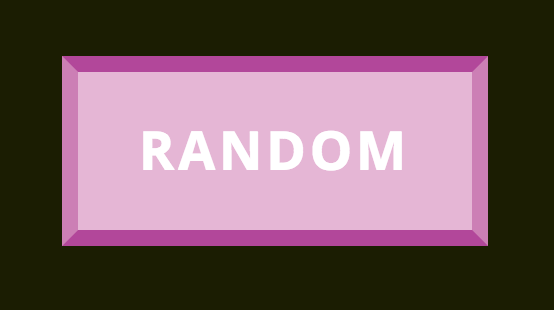
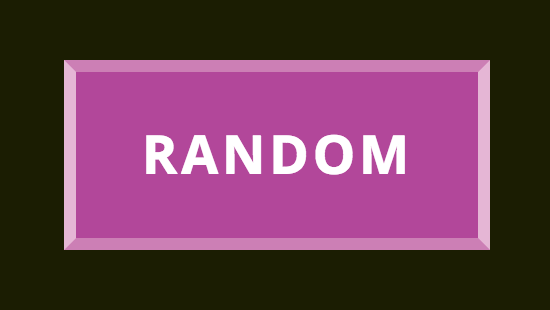
WIP colors

diff --git a/index.html b/index.html
@@ -5,7 +5,7 @@
   <title>home</title>
   <link rel="stylesheet" href="reset.css"/>
   <link href="https://fonts.googleapis.com/css?family=Open+Sans+Condensed:300" rel="stylesheet">
-  <link href="https://fonts.googleapis.com/css?family=IM+Fell+DW+Pica+SC" rel="stylesheet">
+  <link href="https://fonts.googleapis.com/css?family=Poppins:400,500" rel="stylesheet">
   <link href="https://fonts.googleapis.com/css?family=Julius+Sans+One" rel="stylesheet">
   <meta name="viewport" content="width=device-width, initial-scale=1, user-scalable=true;">
   <link rel="stylesheet" type="text/css" href="style.css">
@@ -55,14 +55,18 @@
 
 <section id="right-side">
 
-  <header><h2>Portfolio</h2></header>
+  <header><h2>Featured Work</h2></header>
 
       <section class="large card">
 
-        <h2>Random Color Changer</h2>
-        <h3><a href="https://github.com/maiastone/color-change-me" title="GitHub" id="project-page">Check out the code on GitHub</a></h3>
-        <h3><a href="https://maiastone.github.io/color-change-me/" title="GitHub" id="project-page">See it live on GitHub Pages</a></h3>
-        <img src="Images/color-changer.png" alt="Portfolio"/>
+        <h2>Color Randomizer</h2>
+        <div class="card-container">
+          <img src="Images/color-changer.png" alt="Portfolio"/>
+            <div class="card-links">
+              <h3><a href="https://github.com/maiastone/color-change-me" title="GitHub" id="project-page">Check out the code on GitHub</a></h3>
+              <h3><a href="https://maiastone.github.io/color-change-me/" title="GitHub" id="project-page">See it live on GitHub Pages</a></h3>
+            </div>
+        </div>
         <h4>About the Project</h4>
         <p>
           I was provided comps showing colors, fonts, and layouts for desktop and for mobile.  Two buttons were required that set a random background color and reset the background color to white.
@@ -160,15 +164,18 @@
       <header><h2>Education</h2></header>
       <section class ="short-container">
           <section class="medium card">
-            <h5>Masters in Tax, University of Denver</h5>
+            <h5>Masters in Tax</h5>
+            <h6>University of Denver</h6>
           </section>
 
           <section class="medium card">
-            <h5>MBA - Real Estate, University of Denver</h5>
+            <h5>MBA - Real Estate</h5>
+            <h6>University of Denver</h6>
           </section>
 
           <section class="medium card">
-            <h5>Bachelors in Fine Arts - Photography, University of New Mexico</h5>
+            <h5>Bachelors in Fine Arts, Photography</h5>
+            <h6>University of New Mexico</h6>
           </section>
 
       </section>

diff --git a/style.css b/style.css
@@ -12,7 +12,7 @@ p {
 
 h1 {
   font-size: 50px;
-  font-family: 'IM Fell DW Pica SC', serif;
+  font-family: 'Poppins', sans-serif;
   color: #212121;
   text-align: left;
   padding-right: 20px;
@@ -45,16 +45,22 @@ h4 {
 }
 
 h5 {
-  font-size: 30px;
+  font-size: 28px;
   font-weight: bold;
   text-align: left;
   padding: 0px 15px;
 
 }
 
+h6 {
+  font-size: 22px;
+  text-align: left;
+  padding: 0px 15px;
+
+}
 header {
   padding: 5px;
-  background-color: #8bc34a;
+  background-color: #50D40B;
   border-bottom: 1px solid #757575;
   height: 100px;
 }
@@ -77,7 +83,7 @@ li img {
 }
 
 .font {
-  font-family: 'IM Fell DW Pica SC', serif;
+  font-family: 'Poppins', sans-serif;
   font-size: 42px;
   color: #8BC34A;
 }
@@ -100,18 +106,18 @@ li img {
     width: 15%;
     min-height: 100vh;
     position: fixed;
-    background-color: #DCEDC8;
+    background-color: #dfdfdf;
 }
 
 #right-side {
   width: 85%;
-  background-color: #757575;
+  background-color: #fafafa;
   margin-left: auto;
 }
 
 a {
   text-decoration: underline;
-  color: #757575;
+  color: #8f0bd4;
   font-size: 24px;
 }
 
@@ -120,7 +126,7 @@ a:visited {
 }
 
 a:hover {
-  color: #00bcd4;
+  color: #8f0bd4;
   cursor: pointer;
 
 }

diff --git a/card-style.css b/card-style.css
@@ -2,12 +2,23 @@
   box-shadow: 0px 1px 4px 0px rgba(0,0,0,.2);
   transition: .3s;
   border-radius: 5px;
-  background-color: #daddd4;
+  background-color: #ececec;
 }
 
 .large {
   width: 75%;
   margin: 20px auto;
+}
+
+.large img {
+  width: 50%;
+  height: 50%;
+  border-radius: 20px;
+}
+
+.card-container {
+  display: flex;
+  margin: 2%;
 }
 
 .full {
@@ -39,10 +50,4 @@
 
 .card:hover {
   box-shadow: 0px 3px 6px 0px rgba(0,0,0,.2);
-}
-
-.card img {
-  /*border-radius: 50px;*/
-  padding: 20px;
-
 }
